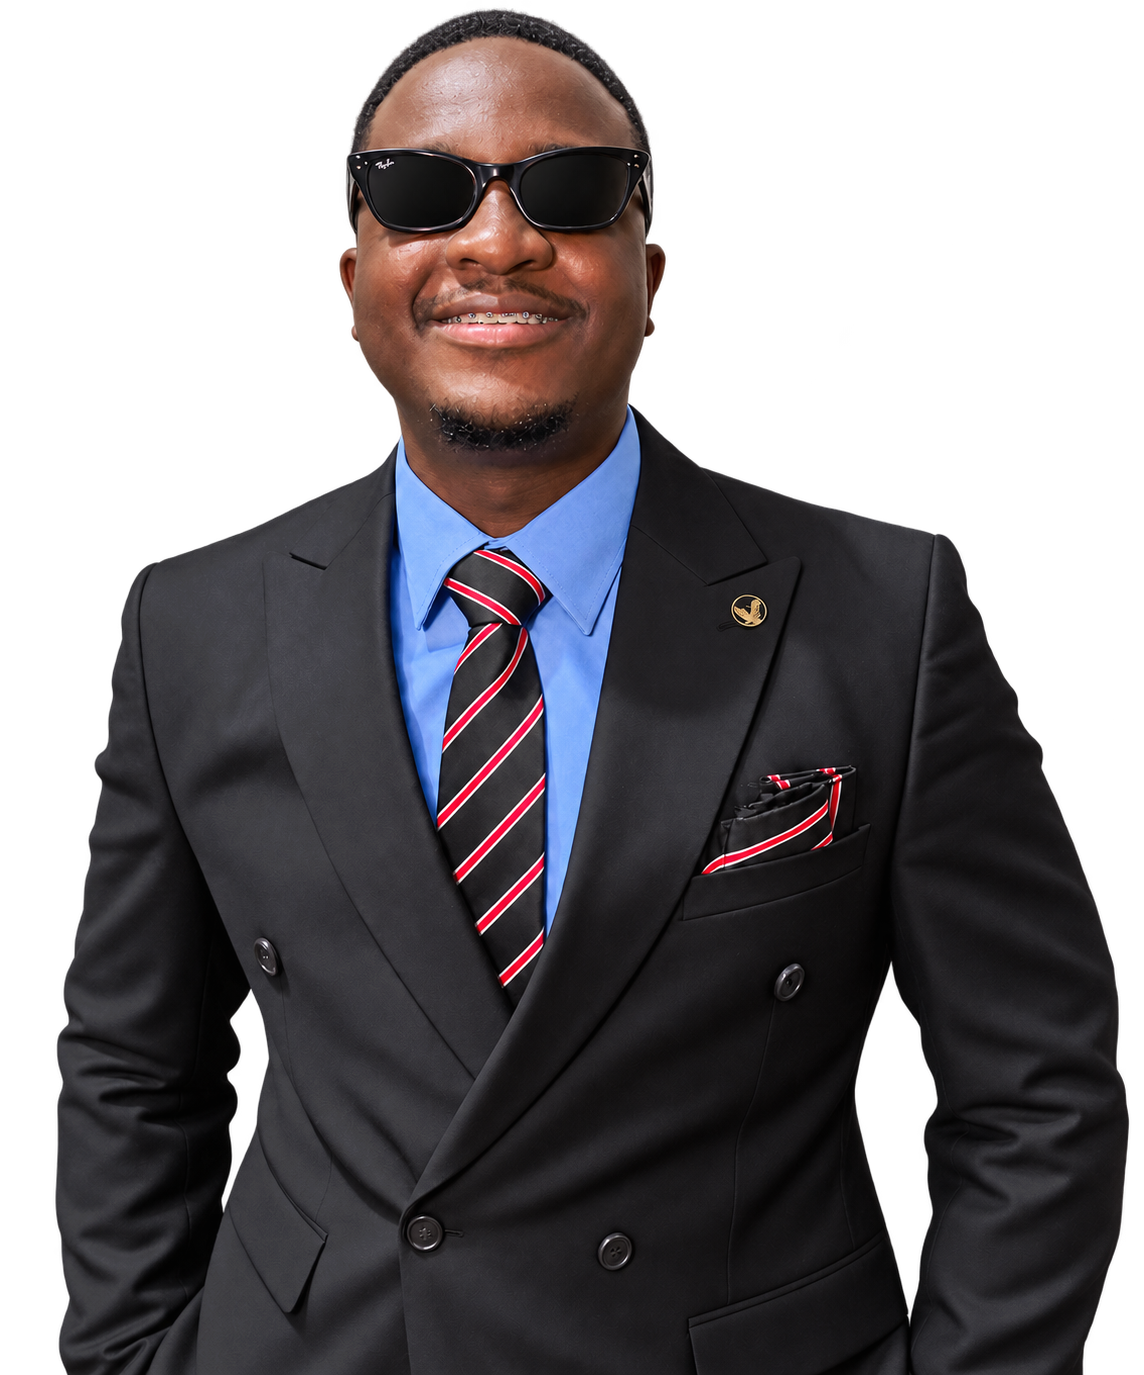
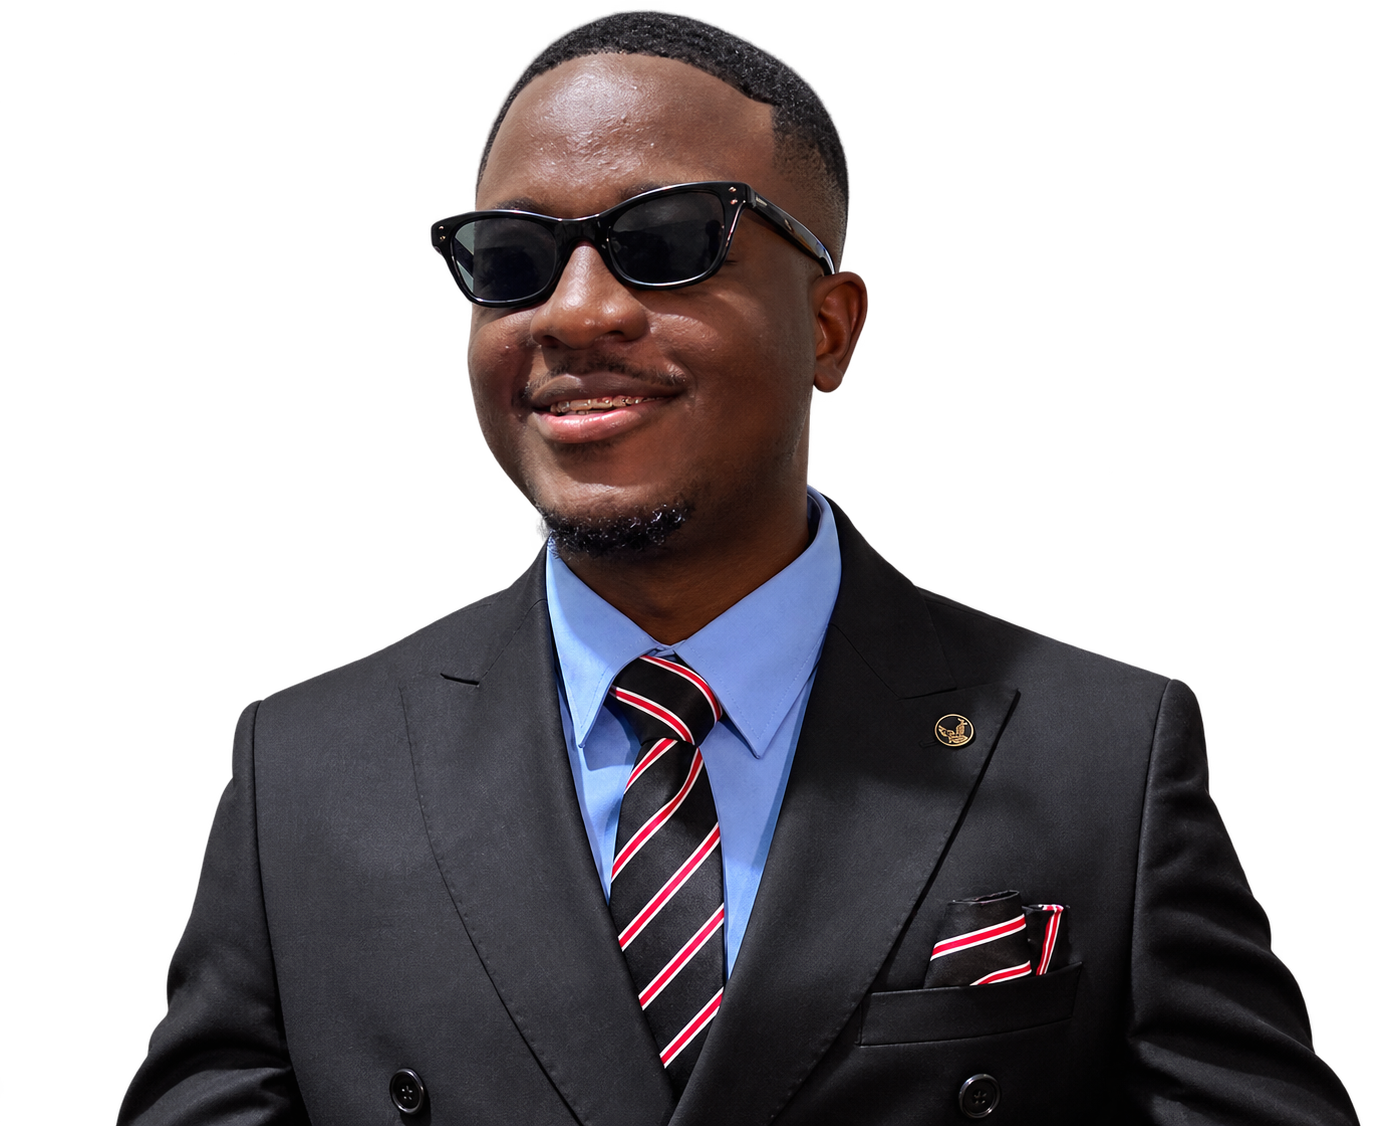
feat: refine about portrait and expand music showcase

diff --git a/about.html b/about.html
@@ -33,12 +33,12 @@
 
     .about-portrait {
       display: flex;
-      justify-content: center;
+      justify-content: flex-end;
     }
 
     .about-portrait img {
       width: 100%;
-      max-width: 360px;
+      max-width: 420px;
       height: auto;
       object-fit: contain;
       transition: transform 0.4s ease;
@@ -51,7 +51,8 @@
     }
 
     @media (prefers-reduced-motion: reduce) {
-      .about-portrait img {
+      .about-portrait img,
+      .about-portrait:hover img {
         transition: none;
         transform: none;
       }
@@ -311,16 +312,21 @@
     }
 
     .music-support img {
-      aspect-ratio: 1 / 1.1;
+      aspect-ratio: 16 / 10;
       object-fit: cover;
     }
 
     .music-live img {
-      object-position: 50% 72%;
+      object-position: 50% 62%;
+    }
+
+    .music-guitar img {
+      object-position: 50% 46%;
     }
 
     .music-sax img {
-      object-position: 50% 18%;
+      aspect-ratio: 16 / 11;
+      object-position: 50% 22%;
     }
 
     .music-collage figcaption {
@@ -376,6 +382,10 @@
         text-align: center;
       }
 
+      .about-portrait {
+        justify-content: center;
+      }
+
       .about-hero .heading,
       .about-hero .subtext {
         margin-left: auto;
@@ -409,6 +419,16 @@
       .music-support {
         grid-template-columns: 1fr;
       }
+
+      .music-primary img,
+      .music-support img,
+      .music-sax img {
+        aspect-ratio: 4 / 3;
+      }
+
+      .music-guitar img {
+        object-position: 50% 45%;
+      }
     }
   </style>
 </head>
@@ -439,7 +459,7 @@
             workflows break, and how they can be improved.</p>
         </div>
         <div class="about-portrait reveal">
-          <img src="images/about_portrait.png" alt="Dylan Afriyie in formal professional attire">
+          <img src="images/aabout_portrait.png" alt="Dylan Afriyie in formal business attire">
         </div>
       </div>
     </div>
@@ -656,17 +676,21 @@
         </div>
         <div class="music-collage">
           <figure class="music-primary reveal">
-            <img loading="lazy" src="images/music_mass_keyboard.jpg" alt="Dylan Afriyie playing keyboard during Catholic Mass">
-            <figcaption>Catholic Mass · Keyboard</figcaption>
+            <img loading="lazy" src="images/music_mass_keyboard.jpg" alt="Dylan Afriyie playing keyboard during a liturgical performance">
+            <figcaption>Keyboard · Liturgical Performance</figcaption>
           </figure>
           <div class="music-support">
             <figure class="music-live reveal">
-              <img loading="lazy" src="images/music_live_keyboard.jpg" alt="Dylan Afriyie performing on keyboard">
-              <figcaption>Live performance · Keyboard</figcaption>
+              <img loading="lazy" src="images/music_live_keyboard.jpg" alt="Dylan Afriyie performing on keyboard at a live event">
+              <figcaption>Keyboard · Live Performance</figcaption>
+            </figure>
+            <figure class="music-guitar reveal">
+              <img loading="lazy" src="images/music_guitar.png" alt="Dylan Afriyie performing on electric guitar">
+              <figcaption>Guitar · Live Performance</figcaption>
             </figure>
             <figure class="music-sax reveal">
               <img loading="lazy" src="images/music_saxophone.png" alt="Dylan Afriyie playing saxophone">
-              <figcaption>Saxophone</figcaption>
+              <figcaption>Saxophone · Instrumental Practice</figcaption>
             </figure>
           </div>
         </div>
